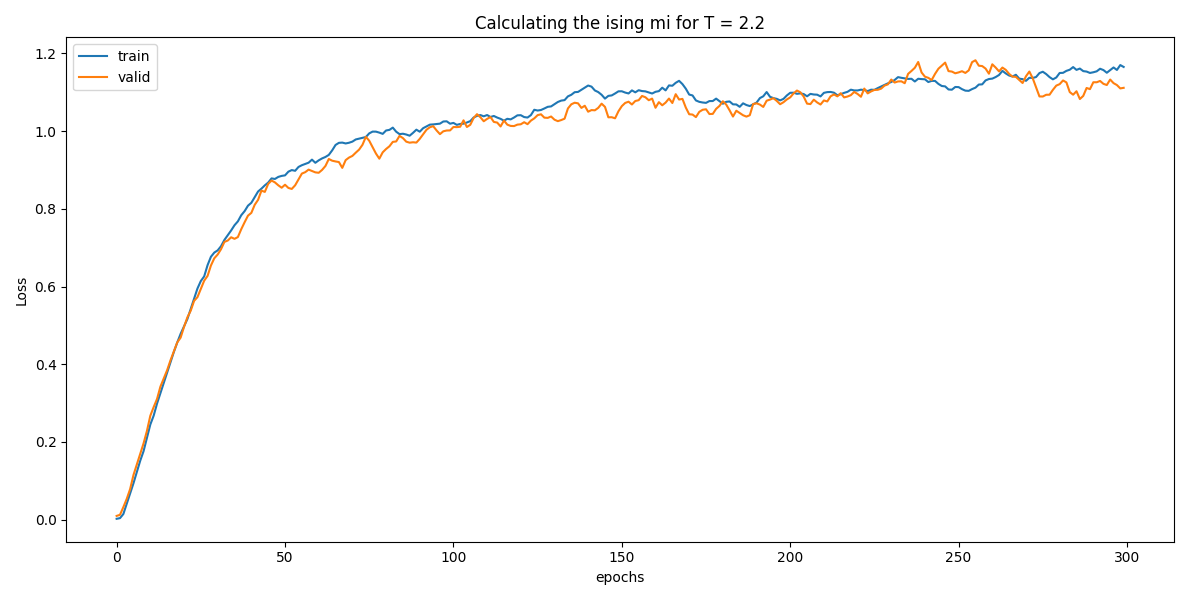
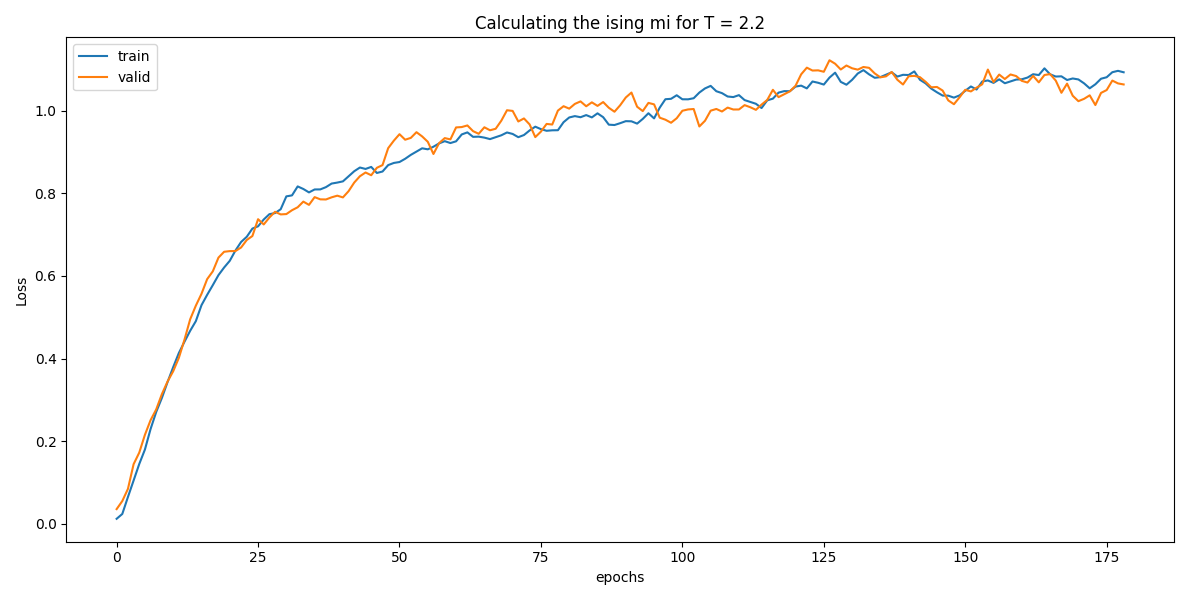
updated

diff --git a/src/mice/main/box_menu_ising.py b/src/mice/main/box_menu_ising.py
@@ -113,8 +113,8 @@ def ising_box_runner(idx, T, max_epochs, batch_size, freq_print, genom, lr, weig
 
 def ising_temp():
     Ts = [round(T,2) for T in np.linspace(0.1, 4, 5)]
-    # Ts = [0.1, 1, 2, 2.1, 2.2, 2.3, 2.4, 2.7, 2.9, 3, 3.2, 4]
-    Ts = [2.1]
+    Ts = [0.1, 1, 2, 2.1, 2.2, 2.3, 2.4, 2.7, 2.9, 3, 3.2, 4]
+
     mi = np.zeros(len(Ts))
 
     for idx, T in enumerate(Ts):
